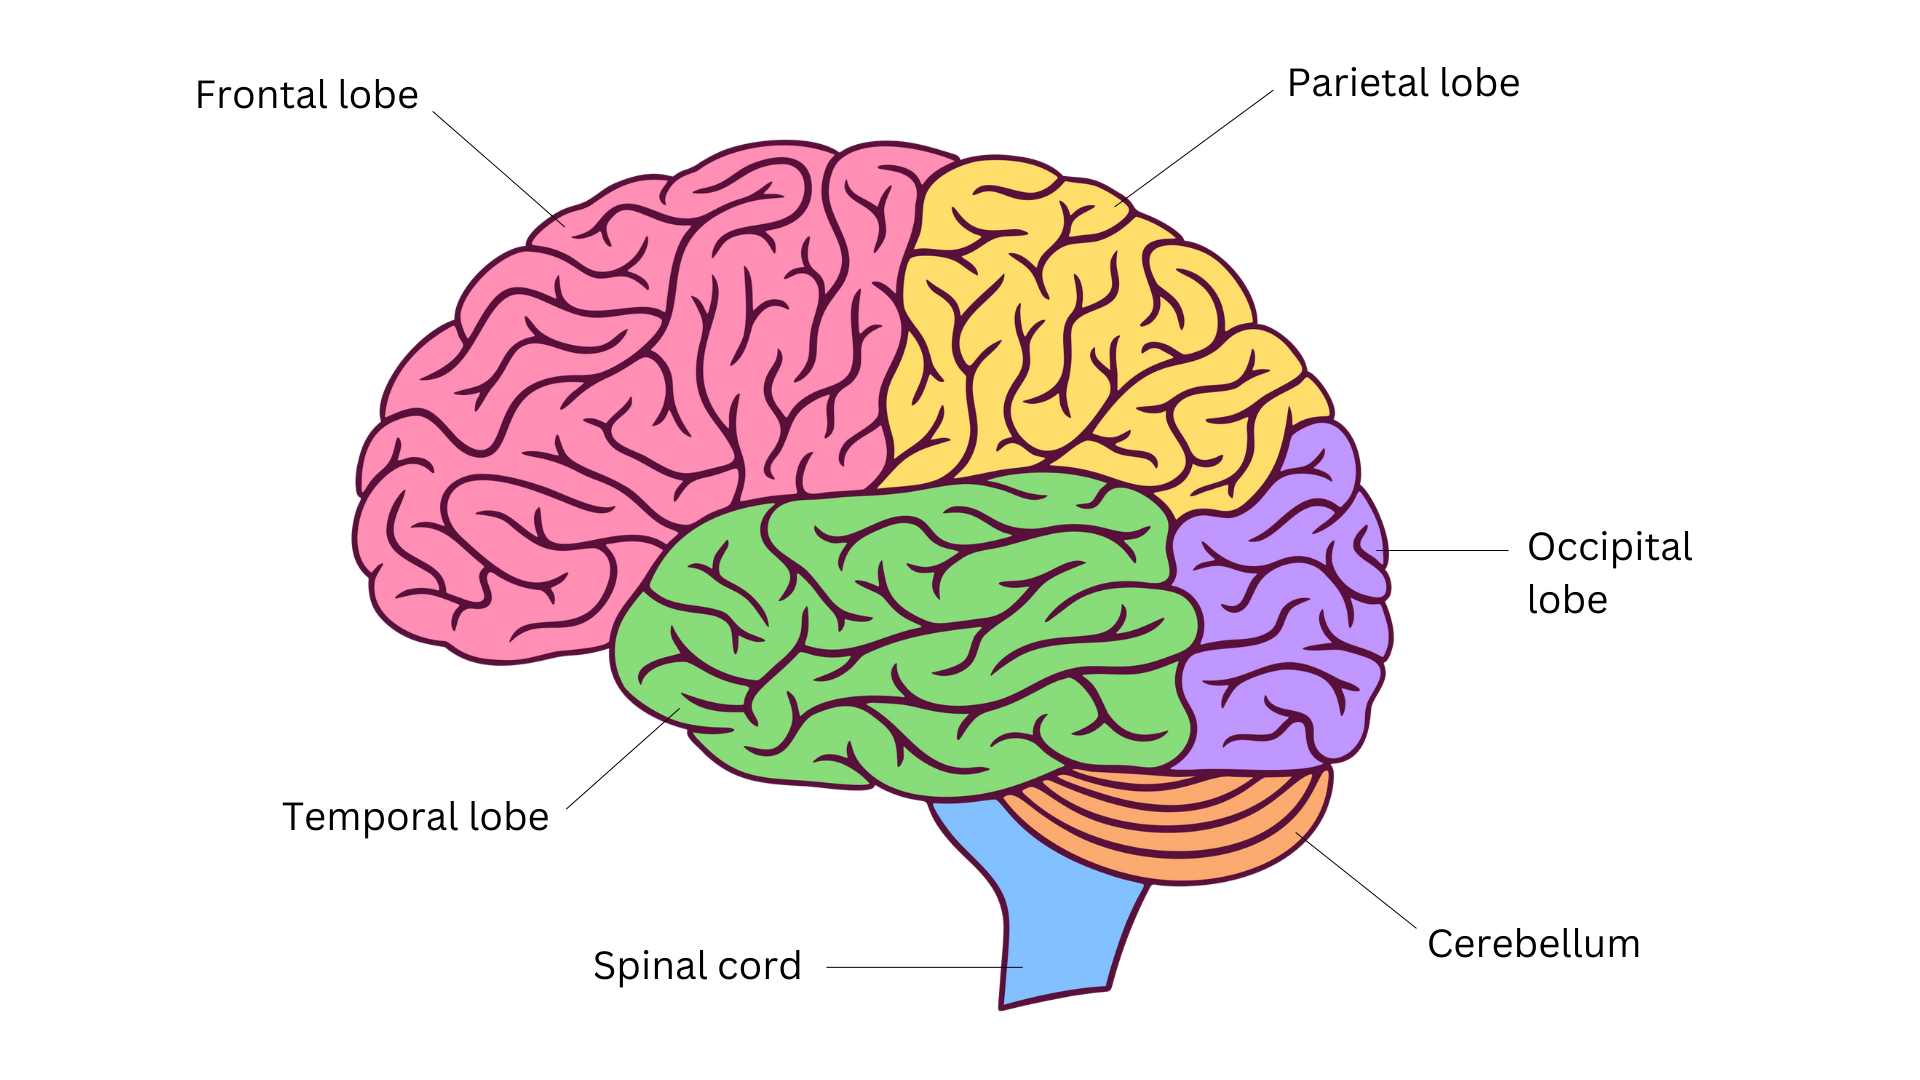
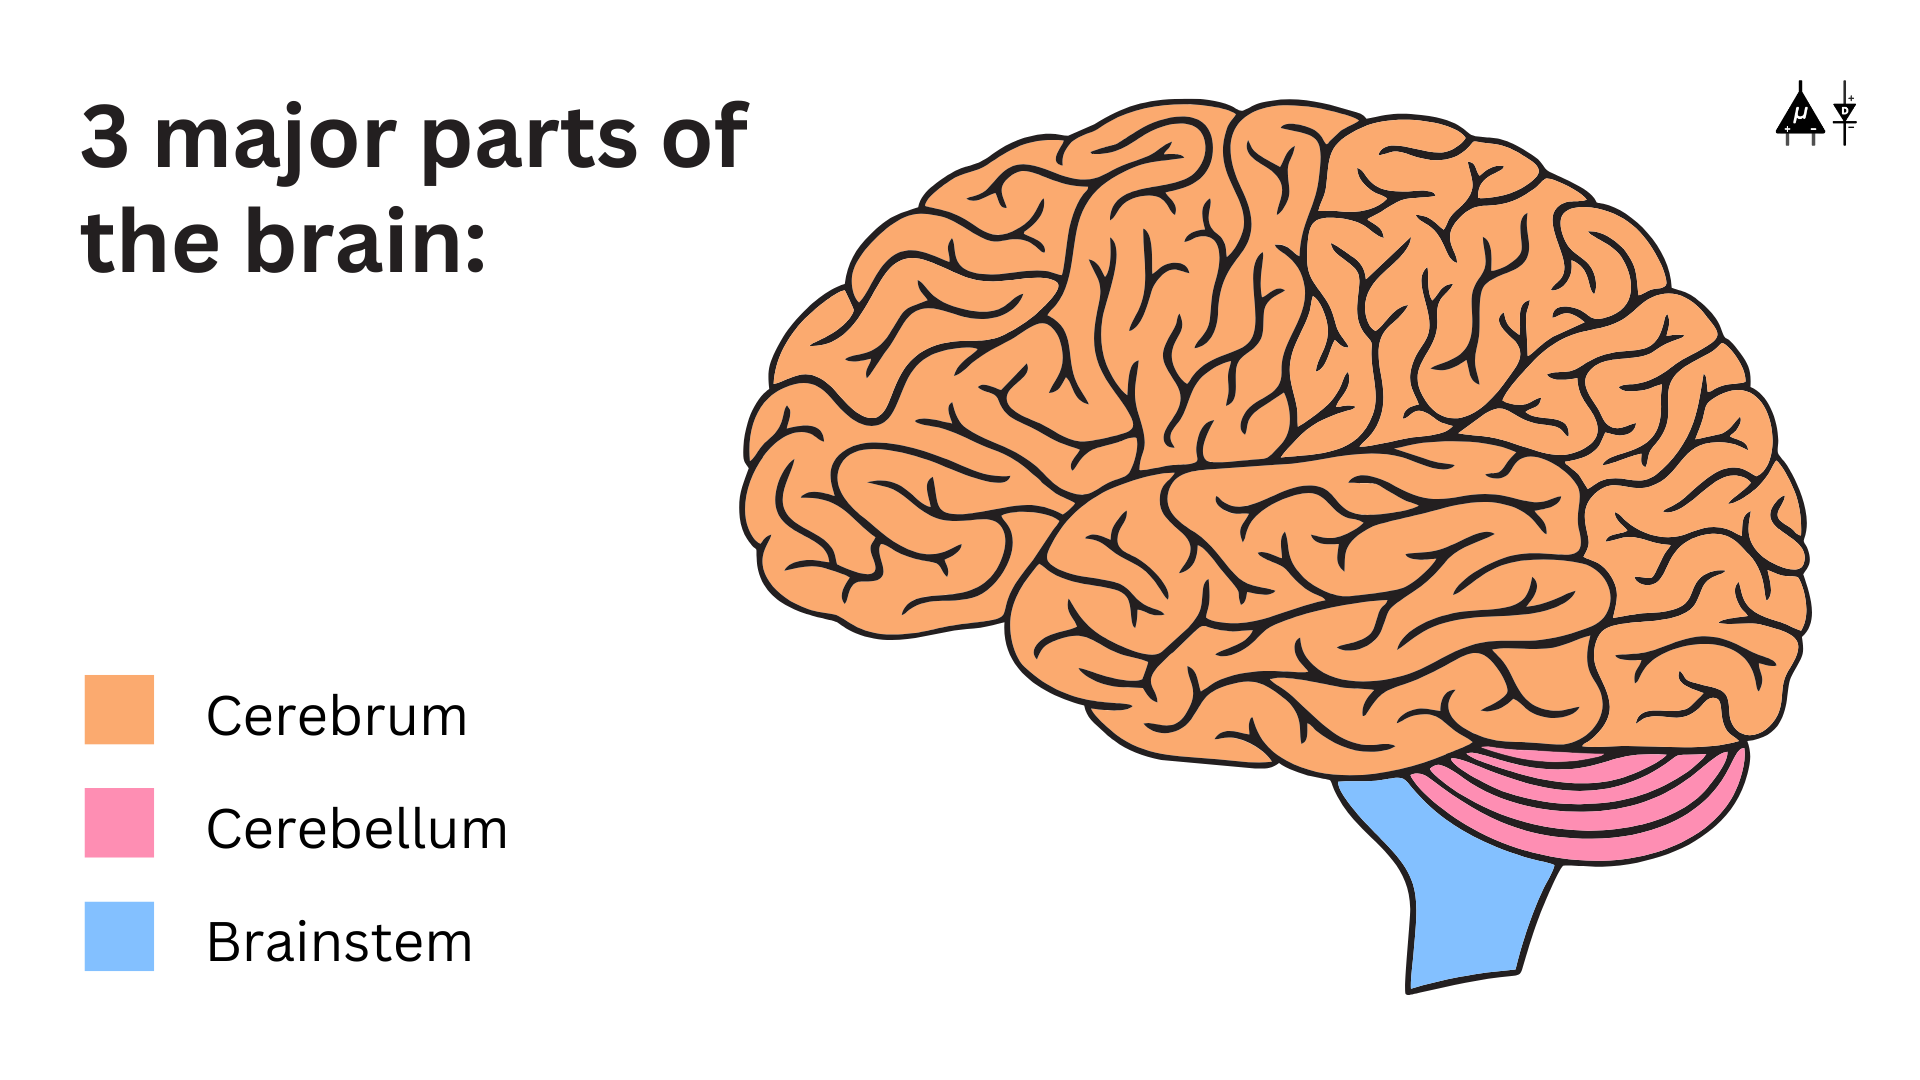
Update module 2 images & add webp files

diff --git a/courses/basics-of-neuroscience/module-2/index.rst b/courses/basics-of-neuroscience/module-2/index.rst
@@ -19,7 +19,7 @@ It is divided into two major parts:
 
     Types of nervous system
 
-.. figure:: ../media/nervous-system-flowchart.*
+.. figure:: ../media/flowchart-nervous-system.*
     :align: center
     :alt: nervous system flowchart
 
@@ -33,27 +33,34 @@ The central nervous system (CNS) is the body’s command center and is made up o
 2.2.1 The Brain
 ================
 
-The brain is the most complex organ which communicates with the body by sending and receiving chemical and electrical signals. Some signals remain within the brain, while others are transmitted through the spinal cord and across a network of nerves to distant parts of the body. This communication relies on billions of neurons that form the central nervous system.
+The brain is the most complex organ which communicates with the body by sending and receiving chemical and electrical signals. Some signals remain within the brain, while others are transmitted through the spinal cord and across a network of nerves to distant parts of the body. This communication relies on billions of neurons that form the central nervous system. Structure of the brain can be divided into 3 major parts.
 
-.. note:: - Brain weighs about 3 pounds in the average adult and contains about 60% fat. The remaining 40% is a combination of water, protein, carbohydrates and salts. 
-          - The brain itself is not a muscle. It contains blood vessels and nerves, including neurons and glial cells.
-          - Our brain is made up of about 80 billion  neurons (that is 80,000,000,000).
+.. figure:: ../media/parts-of-human-brain.*
+    :align: center
+    :alt: Part of the brain
 
-Structure of the brain can be divided into 3 major parts: 
+    3 major parts of human brain
+
+.. admonition:: Fun Fact
+
+    - Brain weighs about 3 pounds in the average adult and contains about 60% fat. The remaining 40% is a combination of water, protein, carbohydrates and salts. 
+    - The brain itself is not a muscle. It contains blood vessels and nerves, including neurons and glial cells.
 
 Cerebrum
 -------------
 
 Cerebrum is the largest part of the brain  which can be divided into 2 hemispheres, right and left.
 
-.. figure:: ../media/brain-anatomy.*
+.. figure:: ../media/two-hemispheres.*
     :align: center
     :alt: Brain Anatomy
 
-    Anatomy of the brain
+    The 2 hemispheres of the brain
 
-.. note:: - The right hemisphere controls the left side of the body, and the left hemisphere controls the right side of the body.
-          - The two halves communicate with one another through a large C shaped structure called corpus callosum which is the center part of the cerebrum.
+.. admonition:: Fun fact
+    
+    - The right hemisphere controls the left side of the body, and the left hemisphere controls the right side of the body.
+    - The two halves communicate with one another through a large C shaped structure called corpus callosum which is the center part of the cerebrum.
 
 Each hemisphere is further divided into four lobes:
    
@@ -62,16 +69,22 @@ b. **Parietal lobe:** Located in the middle part of the brain, the parietal lobe
 c. **Temporal lobe:** Positioned on the sides of the brain, the temporal lobes are involved in short-term memory, speech, musical rhythm and some degree of smell recognition.
 d. **Occipital lobe:** Found at the back of the brain, the occipital lobe is primarily responsible for processing visual information.
 
-.. figure:: ../media/parts-of-human-brain.*
+.. figure:: ../media/different-lobes-of-brain.*
     :align: center
-    :alt: Parts of human brain
+    :alt: Different lobes of the brain
 
-    Parts of the Human Brain
+    Different lobes of the brain
 
 Cerebellum
 -------------------
 
 The cerebellum (little brain) is a fist-sized portion of the brain located at the back of the head and above the brainstem. Its function is to coordinate voluntary muscle movements and to maintain posture, balance and equilibrium.
+
+.. figure:: ../media/parts-of-human-brain-1.*
+    :align: center
+    :alt: Part of the brain
+
+    The cerebellum and brainstem
 
 Brainstem
 --------------
@@ -82,15 +95,25 @@ a. **Midbrain:** Involved in motor control and auditory/visual processing.
 b. **Pons:** It is a connection between midbrain and medulla. It controls sleep, respiration, and some motor functions.
 c. **Medulla:** At the bottom of the brainstem, the medulla is where the brain meets the spinal cord. The medulla is crucial for survival, as it regulates vital bodily functions, including heart rate, breathing, blood circulation, and the balance of oxygen and carbon dioxide levels. It also controls reflexive actions such as sneezing, vomiting, coughing, and swallowing.
 
+.. figure:: ../media/brainstem.*
+    :align: center
+    :alt: Brainstem
+
+    Overview of the brainstem
+
 2.2.2 The Spinal Cord
 ======================
 
 The spinal cord begins at the base of the medulla and passes through a large opening at the bottom of the skull. Supported by the vertebrae, it serves as a communication highway between the brain and the rest of the body. This long, tubular structure transmits sensory information from the body to the brain and sends motor commands from the brain to the body. Additionally, it is responsible for reflex actions, which are quick and involuntary responses to stimuli.
 
+.. figure:: ../media/spinal-cord.*
+    :align: center
+    :alt: Spinal cord
+
+    Spinal cord and vertebrae
+
 2.3 Peripheral Nervous System (PNS)
 **************************************
-
-.. todo:: Add a graph on how PNS is subdivided into various types
 
 The Peripheral Nervous System connects the Central Nervous System to the rest of the body and is responsible for transmitting signals to and from various organs and tissues. It is divided into two major systems:
 
@@ -115,6 +138,10 @@ b. **Parasympathetic Nervous System:** It does the opposite of the sympathetic n
 
 Neurons are the building blocks of the nervous system and are responsible for sending, receiving and transmitting electrochemical signals throughout the body.
 
+.. admonition:: Fun Fact
+    
+    - Our brain is made up of about 80 billion  neurons (that is 80,000,000,000).
+
 2.4.1 Types of neurons
 =========================
 
@@ -122,14 +149,18 @@ Neurons are the building blocks of the nervous system and are responsible for se
 2. **Motor Neurons:** Carry commands from the CNS to muscles and glands, enabling actions like muscle contraction or hormone release. It is the most common type of neuron.
 3. **Interneurons:** These neurons are found in the CNS and act as connectors between sensory and motor neurons. They help process and integrate information.
 
+.. figure:: ../media/types-of-neurons.*
+    :align: center
+    :alt: types of neurons
+
 2.4.2 Structure of neuron
 ============================
 
-.. figure:: ../media/parts-of-neuron.*
+.. figure:: ../media/parts-of-a-neuron.*
     :align: center
-    :alt: Parts of neuron
+    :alt: Structure of neuron
 
-    Parts of a neuron
+    Structure of a neuron
 
 - **Cell Body (Soma):** The soma, or cell body, is the core of the neuron which maintains the cell and to keep the neuron functioning efficiently. It is enclosed by a membrane that protects it and allows it to interact with its immediate surroundings
 - **Nucleus:** Nucleus contains the genetic material (chromosomes) of the neuron cell.
@@ -138,7 +169,9 @@ Neurons are the building blocks of the nervous system and are responsible for se
 - **Myelin sheath:** Myelin sheath is a fatty layer that insulates the axon, speeding up signal transmission. 
 - **Synapse:** Neurons do not touch each other, but where one neuron comes close to another neuron, a synapse is formed between the two which acts as a junction between two neurons where neurotransmitters are released to transmit signals to the next neuron.
 
-.. note:: There are axon-less neurons too where the signal is transmitted and received both by the dendrites.
+.. admonition:: Fun fact
+    
+    There are axon-less neurons too where the signal is transmitted and received both by the dendrites.
 
 2.5 References
 ******************

diff --git a/hardware/bioamp/heart-bioamp-candy/index.rst b/hardware/bioamp/heart-bioamp-candy/index.rst
@@ -16,6 +16,7 @@ research purposes.
     :alt: Heart BioAmp Candy
 
     Heart BioAmp Candy
+
 Features & Specifications
 *****************************
 
@@ -142,6 +143,7 @@ Connect the BioAmp cable to Heart BioAmp Candy by inserting the cable end in the
     :alt: Heart BioAmp Candy - Electrode cable connections
     
     Heart BioAmp Candy - Electrode cable connections
+    
 Step 3: Skin Preparation
 ===============================================
 

diff --git a/software/chords/chords-web/index.rst b/software/chords/chords-web/index.rst
@@ -1,7 +1,7 @@
 .. _chords:
 
 Chords-Web
-#################
+############
 
 Overview
 ********
@@ -50,7 +50,7 @@ To use Chords-Web, you need:
   - `Muscle BioAmp Shield <https://docs.upsidedownlabs.tech/hardware/bioamp/muscle-bioamp-shield/index.html>`_
   
 How to Use Chords-Web
-*******************
+***********************
 
 Uploading the Code
 ==================

diff --git a/software/chords/chords-python/index.rst b/software/chords/chords-python/index.rst
@@ -83,6 +83,7 @@ Follow these steps to set up and install Chords-Python:
 
    - To activate the virtual environment:
       - **On Windows**:
+
       ```
       .\venv\Scripts\activate
       ```
